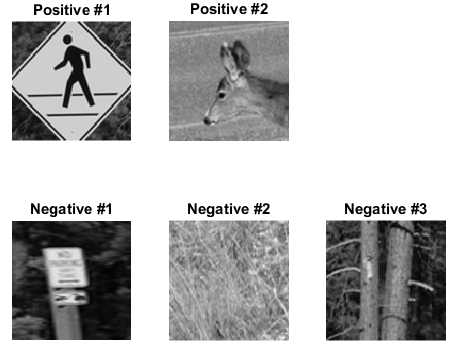
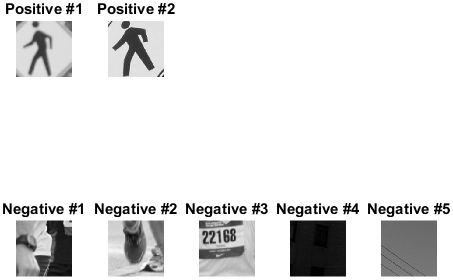
HW 5: Q 2.1 corrected according to the new requirements by TA

diff --git a/Homework 5/My Code/code/select_patches.m b/Homework 5/My Code/code/select_patches.m
@@ -8,6 +8,10 @@ close all;
 % Define the block size
 BlockSize = 8;
 
+% Define the final size
+FinalWidth = 128;
+FinalHeight = 128;
+
 % Ask for the number of training images
 NumOfImages = input('Please enter the number of training images [1]: ');
 if isempty(NumOfImages)
@@ -73,24 +77,41 @@ for n = 1 : NumOfImages
 
         % Get a patch area from user
         PosPatchRects{n}(i, :) = round(getrect);
-
+        
+        % Make the patch square
+        px = PosPatchRects{n}(i, 1);
+        py = PosPatchRects{n}(i, 2);
+        pw = PosPatchRects{n}(i, 3);
+        ph = PosPatchRects{n}(i, 4);
+        if pw < ph
+            px = px - (ph - pw) / 2;
+            pw = ph;
+            px = max(px, 1);
+            px = min(px, size(Images{n}, 2) - pw);
+        elseif ph < pw
+            py = py - (pw - ph) / 2;
+            ph = pw;
+            py = max(py, 1);
+            py = min(py, size(Images{n}, 1) - ph);
+        end
+        PosPatchRects{n}(i, :) = [px py pw ph];
+        
         % Retrieve the patch
         PosTemplates{n}{i} = Images{n}(PosPatchRects{n}(i, 2) : ...
             PosPatchRects{n}(i, 2) + PosPatchRects{n}(i, 4), ...
-            PosPatchRects{n}(i, 1) : PosPatchRects{n}(i, 1) + PosPatchRects{n}(i, 3));
+            PosPatchRects{n}(i, 1) : PosPatchRects{n}(i, 1) + ...
+            PosPatchRects{n}(i, 3));
 
     end
 
     % Calculate minimum and maximum patch dimensions
-    minWidth = min(PosPatchRects{n}(:, 3));
-    maxWidth = max(PosPatchRects{n}(:, 3));
-    minHeight = min(PosPatchRects{n}(:, 4));
-    maxHeight = max(PosPatchRects{n}(:, 4));
+    minPatchSize = min(PosPatchRects{n}(:, 3));
+    maxPatchSize = max(PosPatchRects{n}(:, 3));
 
-    % Randomly select the negative patches in the image without an overlap to
-    % other examples
-    % Note: It select an area in the image with width/height between the
-    % maximum and minimum width/heigh of the selected positive patches
+    % Randomly select the negative patches in the image without an overlap
+    % to the other examples
+    % Note: It selects an area in the image with size between the
+    % maximum and minimum size of the selected positive patches
     for i = 1 : NumOfNegatives
 
         overlap = 1;
@@ -100,14 +121,13 @@ for n = 1 : NumOfImages
             overlap = 0;
 
             % Calculate a patch area
-            patchx = randi(size(Images{n}, 2) - minWidth);
-            patchy = randi(size(Images{n}, 1) - minHeight);
-            patchw = randi(maxWidth - minWidth + 1) + minWidth;
-            patchh = randi(maxHeight - minHeight + 1) + minHeight;
-
+            patchx = randi(size(Images{n}, 2) - minPatchSize);
+            patchy = randi(size(Images{n}, 1) - minPatchSize);
+            patchsize = randi(maxPatchSize - minPatchSize + 1) + minPatchSize;
+            
             % Check if the box exceeds image boundaries
-            if patchx + patchw > size(Images{n}, 2) || ...
-                    patchy + patchh > size(Images{n}, 1)
+            if patchx + patchsize > size(Images{n}, 2) || ...
+                    patchy + patchsize > size(Images{n}, 1)
                 overlap = 1;
                 continue;
             end
@@ -115,18 +135,18 @@ for n = 1 : NumOfImages
             % Check for overlap
             for j = 1 : NumOfPositives
                 if abs(patchx - PosPatchRects{n}(j, 1)) * 2 < ...
-                        patchw + PosPatchRects{n}(j, 3) && ...
+                        patchsize + PosPatchRects{n}(j, 3) && ...
                         abs(patchy - PosPatchRects{n}(j, 2)) * 2 < ...
-                        patchh + PosPatchRects{n}(j, 4)
+                        patchsize + PosPatchRects{n}(j, 4)
                     overlap = 1;
                     break;
                 end
             end
             for j = 1 : i - 1
                 if abs(patchx - NegPatchRects{n}(j, 1)) * 2 < ...
-                        patchw + NegPatchRects{n}(j, 3) && ...
+                        patchsize + NegPatchRects{n}(j, 3) && ...
                         abs(patchy - NegPatchRects{n}(j, 2)) * 2 < ...
-                        patchh + NegPatchRects{n}(j, 4)
+                        patchsize + NegPatchRects{n}(j, 4)
                     overlap = 1;
                     break;
                 end
@@ -134,7 +154,7 @@ for n = 1 : NumOfImages
             
         end
         
-        NegPatchRects{n}(i, :) = [patchx patchy patchw patchh];
+        NegPatchRects{n}(i, :) = [patchx patchy patchsize patchsize];
         
         % Retrieve the patch
         NegTemplates{n}{i} = Images{n}(NegPatchRects{n}(i, 2) : ...
@@ -169,24 +189,15 @@ for i = 1 : NumOfImages
     end
 end
 
-%% Resize the patches with the stated requirements
+%% Resize the patches to final size
 
-% Find the average width and height of the templates
-AverageWidth = TotalWidth / TotalExamples;
-AverageHeight = TotalHeight / TotalExamples;
-
-% Change the average height and width to the nearest multiple of BlockSize
-AverageWidth = round(AverageWidth / BlockSize) * BlockSize;
-AverageHeight = round(AverageHeight / BlockSize) * BlockSize;
-
-% Resize the patches
 for i = 1 : numel(template_images_pos)
     template_images_pos{i} = imresize(template_images_pos{i}, ...
-        [AverageHeight AverageWidth]);
+        [FinalHeight FinalWidth]);
 end
 for i = 1 : numel(template_images_neg)
     template_images_neg{i} = imresize(template_images_neg{i}, ...
-        [AverageHeight AverageWidth]);
+        [FinalHeight FinalWidth]);
 end
 
 %% Show the patches
